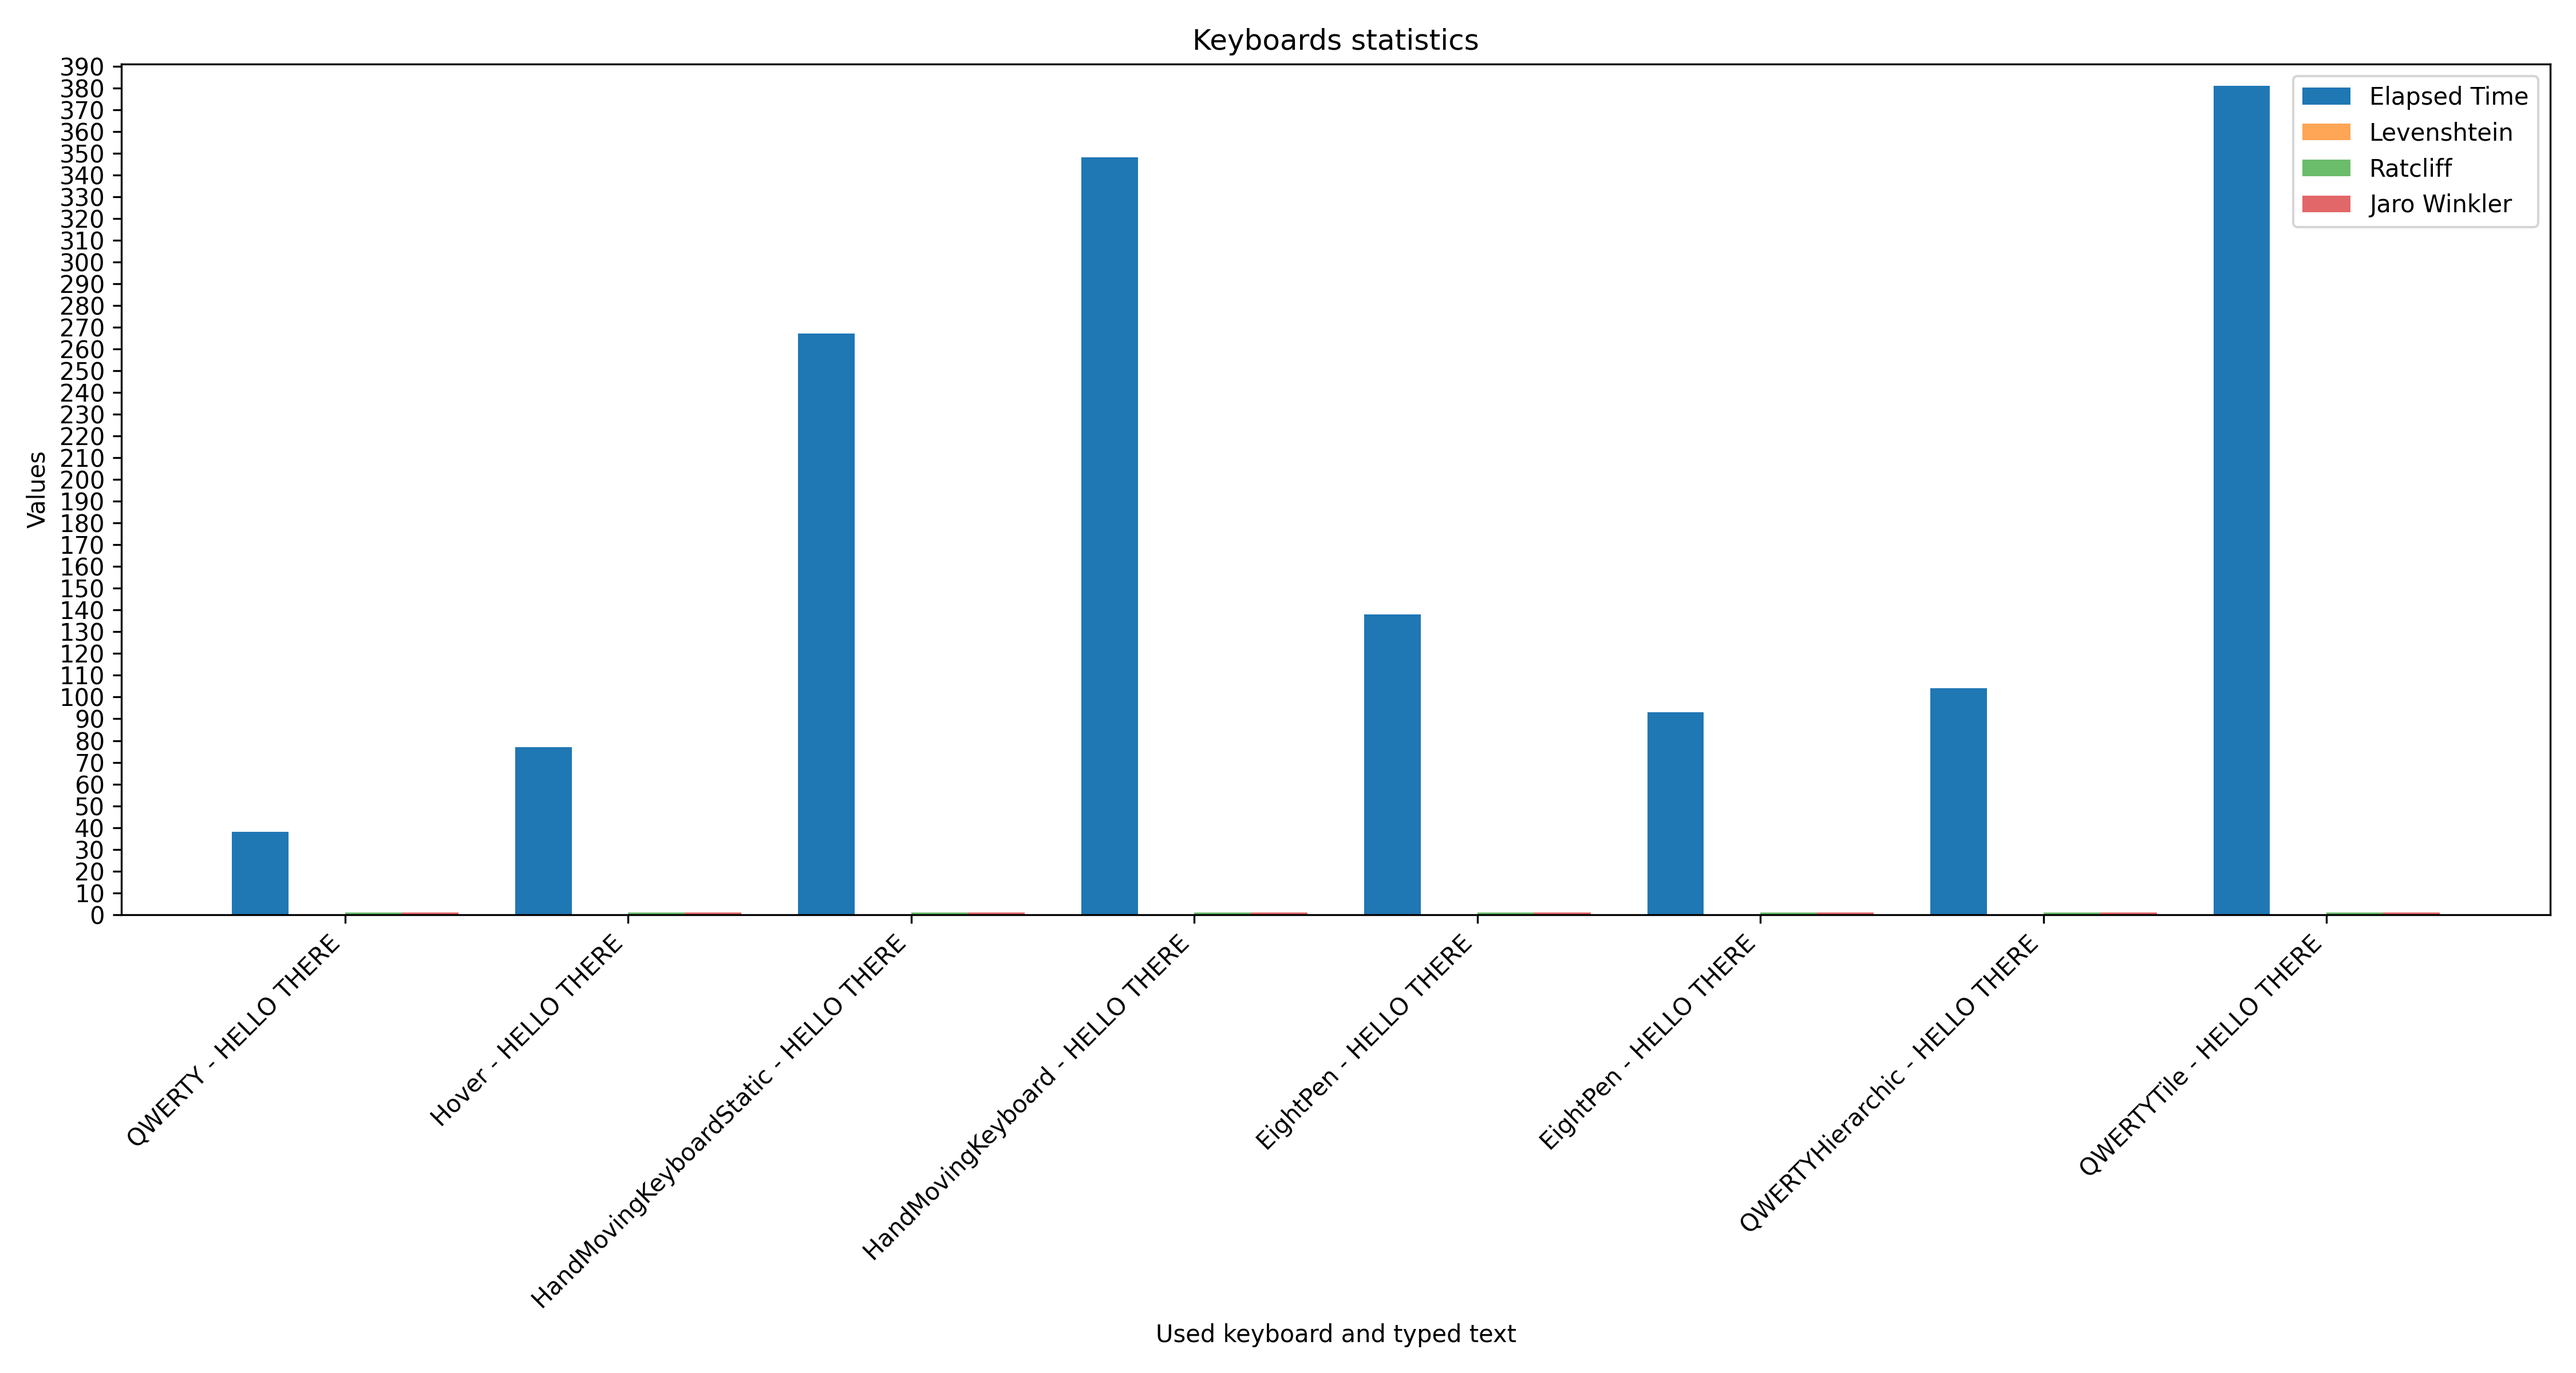
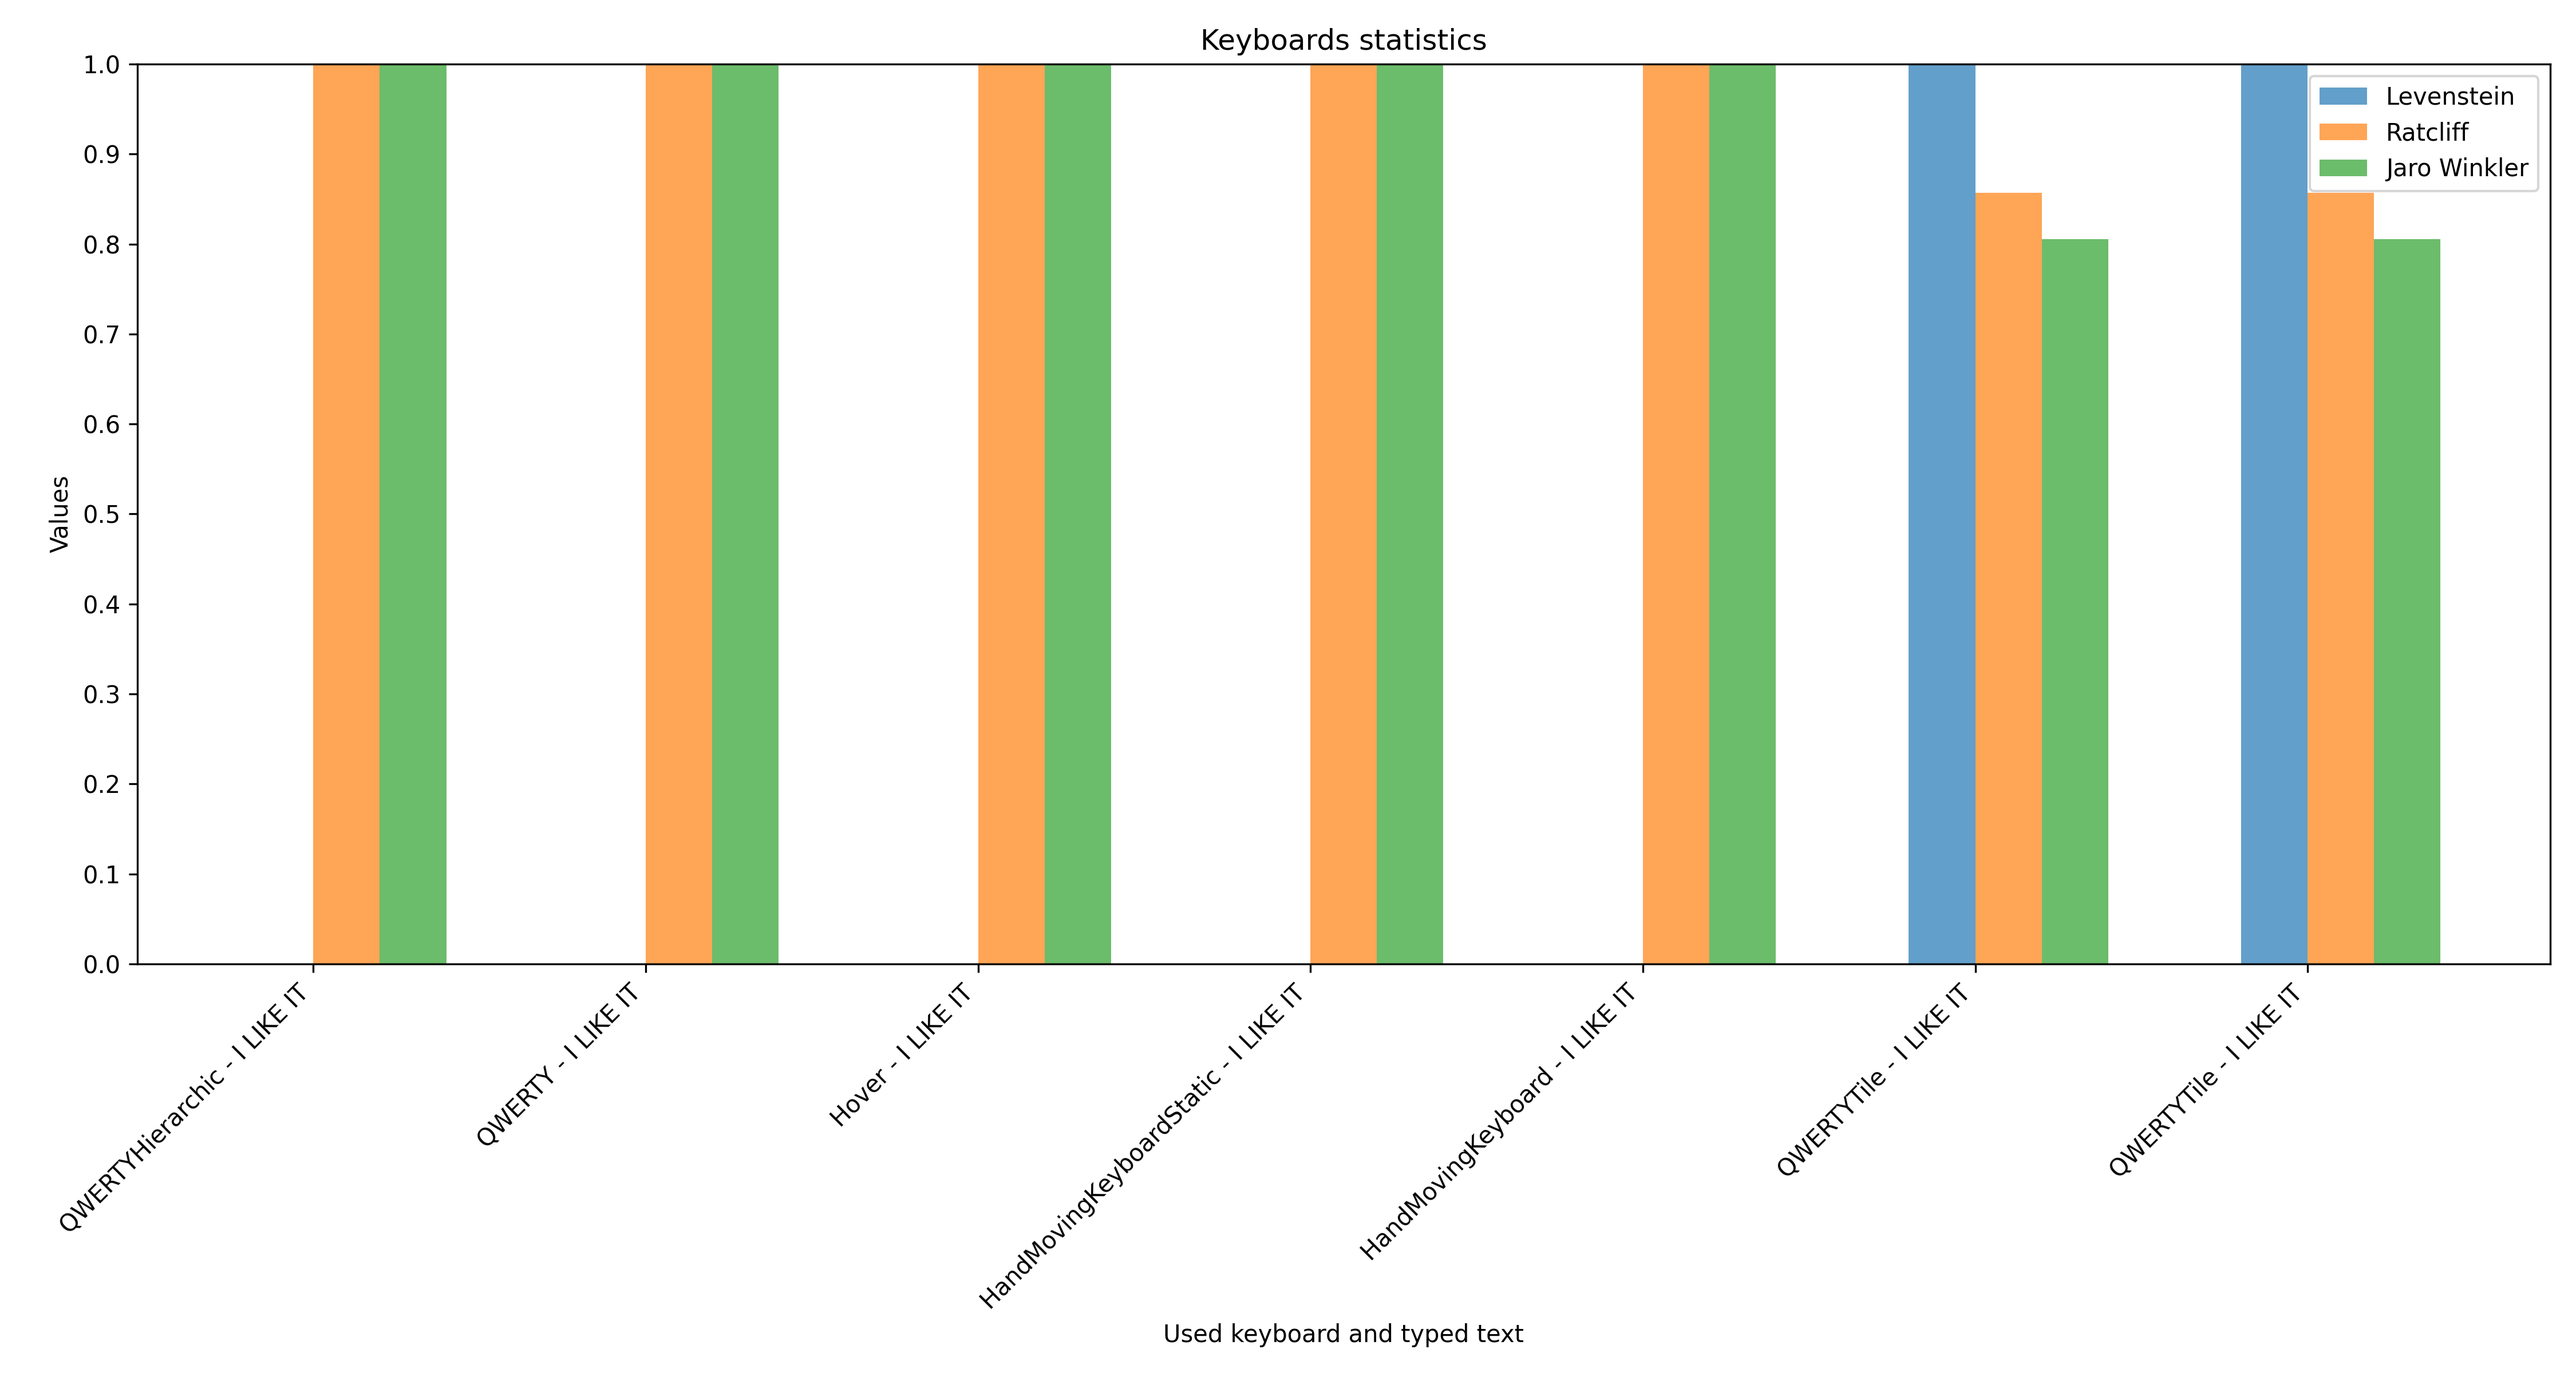
splited graph into two

diff --git a/front/cameraView/CameraView.py b/front/cameraView/CameraView.py
@@ -196,12 +196,11 @@ class CameraView(QWidget):
         }
 
         df = pd.DataFrame(data)
-        file_empty = not os.path.exists("stats.csv") or os.stat("stats.csv").st_size == 0
 
-        if file_empty:
-            df.to_csv("stats.csv", index=False)
+        if os.path.exists("stats.csv"):
+            df.to_csv("stats.csv", mode='a', index=False, header=False )
         else:
-            df.to_csv("stats.csv", mode='a', index=False, header=False)
+            df.to_csv("stats.csv", index=False)
 
         self.reset = True
         self.confirmResetTextBtn.setEnabled(True)
@@ -218,14 +217,11 @@ class CameraView(QWidget):
         x_values = range(len(df))
         bar_width = 0.2
 
-        plt.bar(x_values, df["Elapsed Time (seconds)"], width=bar_width, label='Elapsed Time')
-        plt.bar([x + bar_width for x in x_values], df["Levenstein Transformations"], width=bar_width, label='Levenshtein', alpha=0.7)
-        plt.bar([x + 2 * bar_width for x in x_values], df["Ratcliff"], width=bar_width, label='Ratcliff', alpha=0.7)
-        plt.bar([x + 3 * bar_width for x in x_values], df["Jaro Winkler"], width=bar_width, label='Jaro Winkler', alpha=0.7)
+        plt.bar(x_values, df["Elapsed Time (seconds)"], width=bar_width, label='Elapsed Time')        
 
         plt.title('Keyboards statistics')
         plt.xlabel('Used keyboard and typed text')
-        plt.ylabel('Values')
+        plt.ylabel('Time in seconds')
         plt.legend()
 
         plt.xticks([x + 1.5 * bar_width for x in x_values], [f"{row['Keyboard']} - {row['Text']}" for _, row in df.iterrows()], rotation=45, ha="right")
@@ -234,7 +230,32 @@ class CameraView(QWidget):
         plt.ylim(0, max_time + 10)
 
         plt.tight_layout()
+        plt.savefig('statsTime.png', dpi=300)
+        plt.clf()
+        
+        plt.figure(figsize=(15, 8))
+
+        #find max time value
+        max_time = df["Elapsed Time (seconds)"].max()
+        x_values = range(len(df))
+        bar_width = 0.2
+
+        plt.bar([x + bar_width for x in x_values], df["Levenstein Transformations"], width=bar_width, label='Levenstein', alpha=0.7)
+        plt.bar([x + 2 * bar_width for x in x_values], df["Ratcliff"], width=bar_width, label='Ratcliff', alpha=0.7)
+        plt.bar([x + 3 * bar_width for x in x_values], df["Jaro Winkler"], width=bar_width, label='Jaro Winkler', alpha=0.7)      
+
+        plt.title('Keyboards statistics')
+        plt.xlabel('Used keyboard and typed text')
+        plt.ylabel('Values')
+        plt.legend()
+
+        plt.xticks([x + 1.5 * bar_width for x in x_values], [f"{row['Keyboard']} - {row['Text']}" for _, row in df.iterrows()], rotation=45, ha="right")
+        plt.yticks(np.linspace(0, 1, 11))
+        plt.ylim(0, 1)
+
+        plt.tight_layout()
         plt.savefig('stats.png', dpi=300)
+        
 
     def getSimilarity(self, str1, str2):
         leven = Levenshtein.distance(str1, str2)  #ile transformacji , -

diff --git a/back/QWERTYTile.py b/back/QWERTYTile.py
@@ -49,7 +49,7 @@ class QWERTYTile:
         self.start = True
         self.last_gesture_time = time.time()
         self.gesturePause = 0.5
-        self.gesturePauseConfirm = 1
+        self.gesturePauseConfirm = 0.5
         self.lms = None
         self.calibration_delay = 0
         self.calibration_loading = 0
@@ -112,19 +112,19 @@ class QWERTYTile:
 
     def highlightKeyAbove(self):
         current_index = np.argmax(self.keyboard_bin_tab)
-        if current_index - 10 >= 0:
-            new_index = current_index - 10
-            self.key_to_highlight = self.tiles[new_index]
-            self.keyboard_bin_tab[current_index] = 0
-            self.keyboard_bin_tab[new_index] = 1        
-        elif current_index >= 30:
+        if current_index >= 30:
             if current_index == 30:
                 self.keyboard_bin_tab[23] = 1
-                self.keyboard_bin_tab[current_index] = 0
+                #self.keyboard_bin_tab[current_index] = 0
             elif current_index == 31:
                 self.keyboard_bin_tab[28] = 1
-                self.keyboard_bin_tab[current_index] = 0
-
+                #self.keyboard_bin_tab[current_index] = 0
+        elif current_index - 10 >= 0:
+            new_index = current_index - 10
+            self.key_to_highlight = self.tiles[new_index]            
+            self.keyboard_bin_tab[new_index] = 1        
+        self.keyboard_bin_tab[current_index] = 0
+        
     def highlightKeyBelow(self):
         current_index = np.argmax(self.keyboard_bin_tab)
         if current_index + 10 < len(self.keyboard_bin_tab):
@@ -280,7 +280,7 @@ class QWERTYTile:
             try:
                 if self.is_calibrated == True:
                     screen = self.afterCalibrationDelay(screen, 100, 100)
-                    self.findGesture()
+                    #self.findGesture()
                 else:
                     self.calibration_delay = 10
                     screen = self.calibrate(screen)

diff --git a/back/Hover.py b/back/Hover.py
@@ -14,11 +14,14 @@ class Hover:
         self.typing_delay = 0.8
         self.prev_time = 0
 
+    def get_result(self):
+        return self.res
+
     def update(self, screen, keyboard):
         self.keyboard = keyboard
         self.keys = self.keyboard.get_keys()
         screen = self.detector.findHands(screen, draw=False)
-        lms = self.detector.findPosition(screen)
+        lms = self.detector.findPosition(screen, draw=False)
 
         try:
             screen = self.keyboard.generateKeyboardHover(screen, 10, 100, 30, 30)
@@ -45,9 +48,11 @@ class Hover:
         except Exception as e:
             print("Hover algorithm doesn't work/lms out of range:", e)
 
-        screen = self.drawResult(screen, 600, 600)
+        screen = self.drawResult(screen, 600, 600)  # Assign the updated screen to the variable
 
         return screen, self.res
+
+
 
     def setResult(self, res):
         if res == "<":
